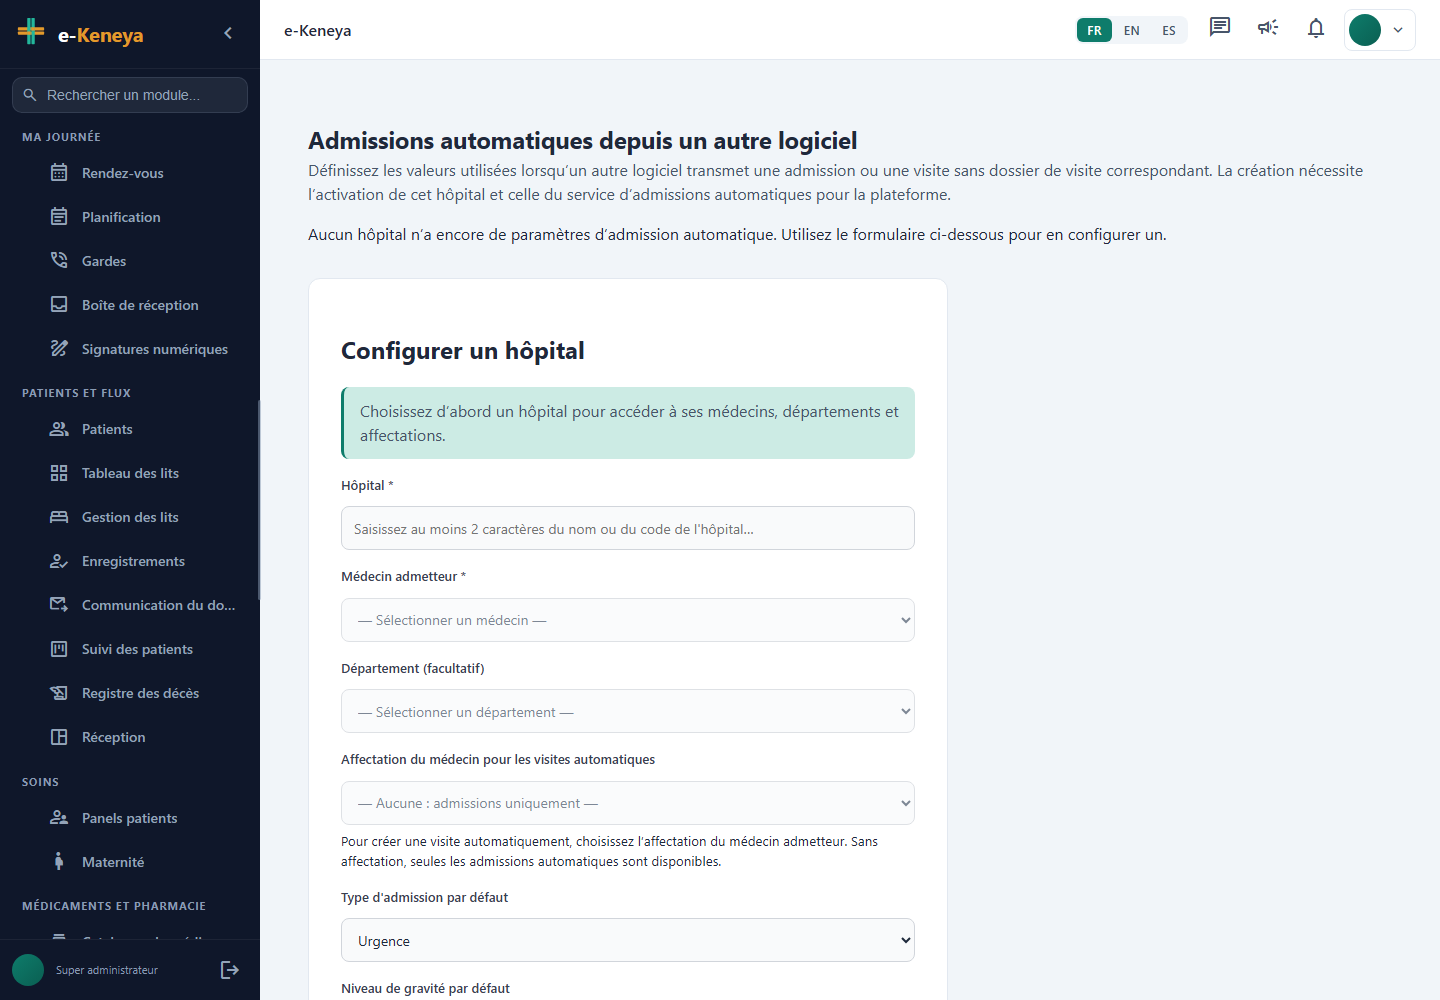
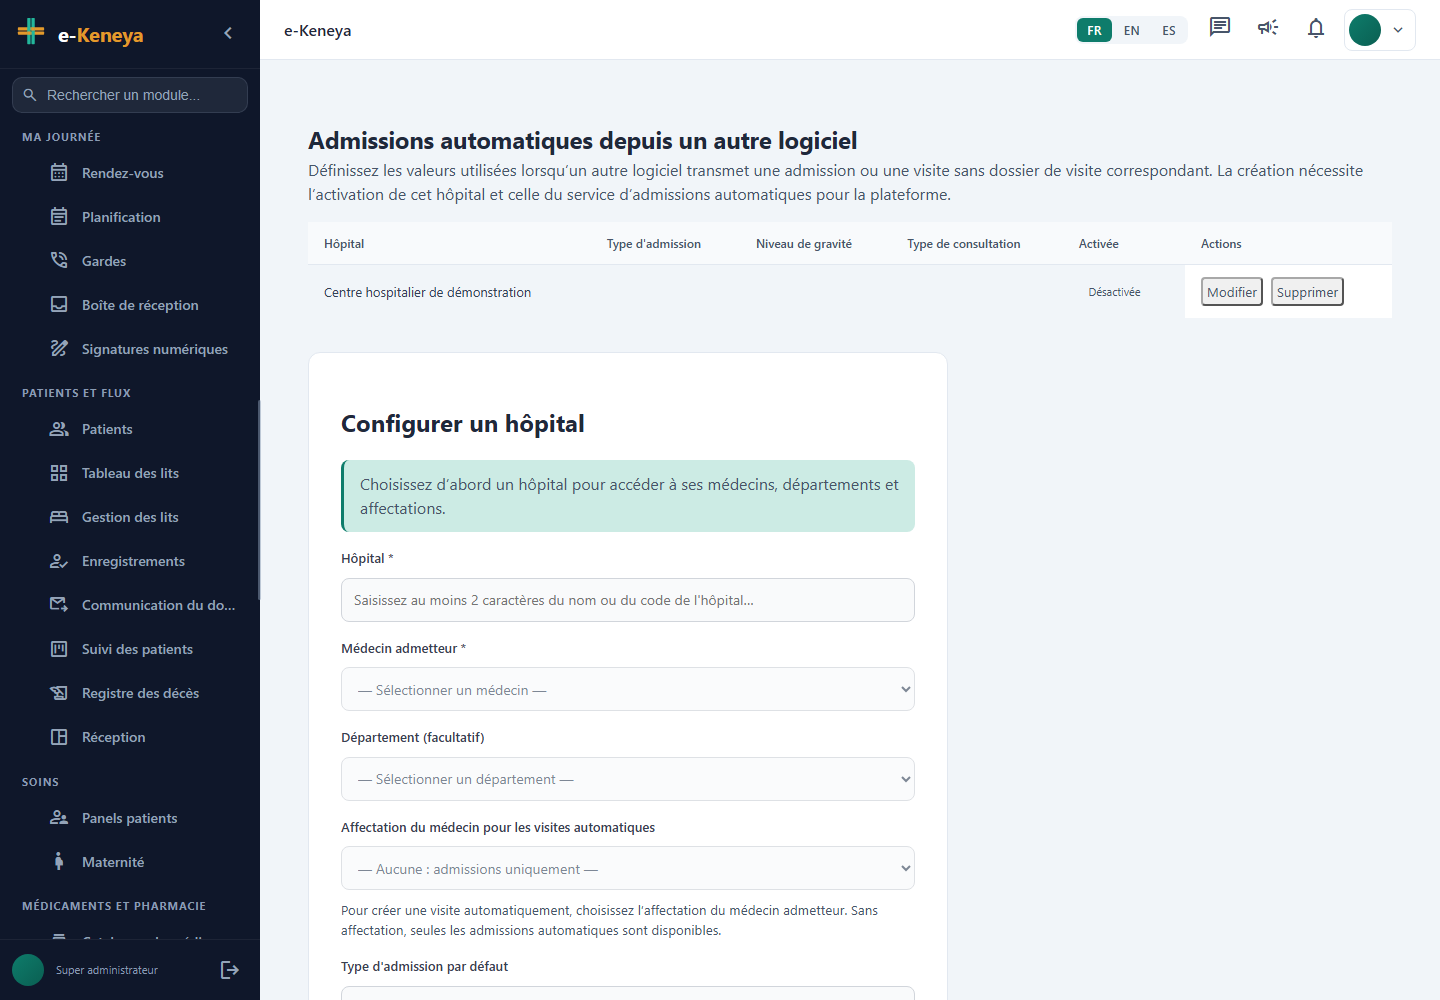
fix(ui): enforce CSS evidence and retain form display semantics

diff --git a/hospital-portal/e2e/form-display.spec.ts b/hospital-portal/e2e/form-display.spec.ts
@@ -10,7 +10,20 @@ for (const width of [390, 1440]) {
     await page.setViewportSize({ width, height: 1000 });
     await signInAs(page, 'ROLE_SUPER_ADMIN', baseURL!);
     await installLocalIconFonts(page);
-    await page.route('**/api/admin/adt-intake-configs*', (route) => route.fulfill({ json: [] }));
+    await page.route('**/api/admin/adt-intake-configs*', (route) =>
+      route.fulfill({
+        json: [
+          {
+            id: TEST_ID,
+            hospitalId: TEST_ID,
+            hospitalName: 'Centre hospitalier de démonstration',
+            admittingProviderId: null,
+            departmentId: null,
+            enabled: false,
+          },
+        ],
+      }),
+    );
     await page.goto('/admin/adt-intake-configs');
     const form = page.getByTestId('adt-intake-form');
     await expect(form).toBeVisible();
@@ -35,7 +48,6 @@ for (const width of [390, 1440]) {
           parentLeft: parent.left,
           parentRight: parent.right,
           radius: parseFloat(style.borderRadius),
-          font: style.fontFamily,
         };
       });
       expect(measured.height).toBeGreaterThanOrEqual(43);
@@ -48,10 +60,27 @@ for (const width of [390, 1440]) {
     );
     await expect(page.getByTestId('adt-intake-admin')).not.toContainText('ADT^');
     await expect(page.getByTestId('adt-intake-admin')).not.toContainText('app.hl7.');
+    const label = form.locator('label[for="adt-hospital-search"]');
+    expect(await label.evaluate((el) => getComputedStyle(el).fontWeight)).toBe('500');
+    expect(await label.locator('..').evaluate((el) => getComputedStyle(el).flexDirection)).toBe(
+      'column',
+    );
     const screenshot = info.outputPath(`automatic-admissions-${width}.png`);
     await page.screenshot({ path: screenshot, fullPage: true });
     await info.attach(`automatic-admissions-${width}`, {
       path: screenshot,
+      contentType: 'image/png',
+    });
+    await page.getByTestId('adt-intake-edit-' + TEST_ID).click();
+    const hospital = page.getByTestId('adt-intake-hospital-search');
+    await expect(hospital).toBeDisabled();
+    await expect(hospital).toHaveAttribute('aria-describedby', 'adt-hospital-help');
+    await expect(page.locator('#adt-hospital-help')).toContainText('hôpital');
+    await expect(page.locator('#adt-hospital-help')).toBeVisible();
+    const editScreenshot = info.outputPath(`automatic-admissions-edit-${width}.png`);
+    await page.screenshot({ path: editScreenshot, fullPage: true });
+    await info.attach(`automatic-admissions-edit-${width}`, {
+      path: editScreenshot,
       contentType: 'image/png',
     });
     if (width === 390) {
@@ -146,6 +175,9 @@ for (const width of [390, 1440]) {
       expect(
         await page.evaluate(() => document.documentElement.scrollWidth <= innerWidth + 1),
       ).toBe(true);
+      for (const label of await form.locator(':scope > label').all()) {
+        expect(await label.evaluate((el) => el.getBoundingClientRect().height)).toBeLessThan(180);
+      }
       const screenshot = info.outputPath(`${name}-${width}.png`);
       await page.screenshot({ path: screenshot, fullPage: true });
       await info.attach(`${name}-${width}`, { path: screenshot, contentType: 'image/png' });
@@ -153,6 +185,23 @@ for (const width of [390, 1440]) {
     await checkAndCapture('dhis2-config-form', 'integration-settings');
     await page.getByTestId('dhis2-tab-mappings').click();
     await checkAndCapture('dhis2-mapping-add-form', 'integration-mappings');
+    const filter = page.getByTestId('dhis2-mapping-filter-dataset');
+    await expect(filter).toBeVisible();
+    const bounds = await filter.evaluate((el) => {
+      const box = el.getBoundingClientRect();
+      const parent = el.closest('.dhis2-mappings__filter')!.getBoundingClientRect();
+      return {
+        left: box.left,
+        right: box.right,
+        parentLeft: parent.left,
+        parentRight: parent.right,
+        height: box.height,
+      };
+    });
+    expect(bounds.left).toBeGreaterThanOrEqual(bounds.parentLeft);
+    expect(bounds.right).toBeLessThanOrEqual(bounds.parentRight);
+    expect(bounds.height).toBeGreaterThanOrEqual(43);
+
     await page.getByTestId('dhis2-tab-exports').click();
     await checkAndCapture('dhis2-export-form', 'integration-exports');
     await signInAs(page, 'ROLE_SUPER_ADMIN', baseURL!);

diff --git a/hospital-portal/src/app/shell/shell.ts b/hospital-portal/src/app/shell/shell.ts
@@ -62,6 +62,7 @@ import { ServerTimePipe } from '../shared/pipes/server-time.pipe';
 import { ConfirmService } from '../shared/confirm-dialog/confirm.service';
 
 interface NavItem {
+  wrapLabel?: boolean;
   icon: string;
   label: string;
   translationKey?: string;
@@ -1784,6 +1785,7 @@ export class ShellComponent implements OnInit, OnDestroy, AfterViewInit {
       icon: 'input',
       label: 'ADT intake',
       translationKey: 'NAV.ADT_INTAKE',
+      wrapLabel: true,
       route: '/admin/adt-intake-configs',
     });
     items.push({

diff --git a/hospital-portal/playwright.production.config.ts b/hospital-portal/playwright.production.config.ts
@@ -14,7 +14,10 @@ export default defineConfig({
   },
   reporter: [['list'], ['html', { open: 'never' }]],
   webServer: {
-    command: 'npm run build && node scripts/serve-built-portal.mjs',
+    command:
+      process.env.PLAYWRIGHT_PREBUILT === '1'
+        ? 'node scripts/serve-built-portal.mjs'
+        : 'npm run build && node scripts/serve-built-portal.mjs',
     url: 'http://127.0.0.1:4281',
     reuseExistingServer: false,
     timeout: 240000,

diff --git a/hospital-portal/src/app/admin/adt-intake-config/adt-intake-config.component.scss b/hospital-portal/src/app/admin/adt-intake-config/adt-intake-config.component.scss
@@ -35,11 +35,13 @@
   flex-direction: column;
   margin-bottom: 0.75rem;
 }
-.form-row label {
+.form-row label,
+.form-group label {
   font-weight: 500;
   margin-bottom: 0.25rem;
 }
-.form-row small {
+.form-row small,
+.form-group small {
   color: var(--text-secondary);
   margin-top: 0.25rem;
 }
@@ -73,6 +75,8 @@
 }
 
 .form-group {
+  display: flex;
+  flex-direction: column;
   gap: 0.375rem;
   margin-bottom: 1rem;
   min-width: 0;

diff --git a/hospital-portal/src/app/shell/shell.html b/hospital-portal/src/app/shell/shell.html
@@ -111,6 +111,7 @@
           @for (entry of group.entries; track entry.item.route) {
             <a
               class="nav-item"
+              [class.nav-item--wrap-label]="entry.item.wrapLabel"
               [class.dragging]="dragIndex() === entry.flatIndex"
               [class.drag-over]="
                 dragOverIndex() === entry.flatIndex && dragIndex() !== entry.flatIndex

diff --git a/hospital-portal/src/app/shell/shell.scss b/hospital-portal/src/app/shell/shell.scss
@@ -271,7 +271,7 @@ $sidebar-active-text: #23b79c; // 6.2:1 on the active row
 }
 
 // Keep the complete plain-language label readable in the narrow admin drawer.
-.nav-item[href='/admin/adt-intake-configs'] .nav-label {
+.nav-item--wrap-label .nav-label {
   white-space: normal;
   overflow-wrap: anywhere;
   text-overflow: clip;

diff --git a/hospital-portal/src/app/admin/integrations/dhis2-mapping-editor/dhis2-mapping-editor.component.ts b/hospital-portal/src/app/admin/integrations/dhis2-mapping-editor/dhis2-mapping-editor.component.ts
@@ -194,7 +194,7 @@ import { ConfirmService } from '../../../shared/confirm-dialog/confirm.service';
         max-width: 100%;
         min-width: 0;
       }
-      .form-card label {
+      .dhis2-mappings__add > label {
         min-width: 0;
         flex: 1 1 14rem;
       }

diff --git a/hospital-portal/src/app/admin/integrations/dhis2-export-panel/dhis2-export-panel.component.ts b/hospital-portal/src/app/admin/integrations/dhis2-export-panel/dhis2-export-panel.component.ts
@@ -171,7 +171,7 @@ import { SubmitGuardDirective } from '../../../shared/forms/submit-guard.directi
         max-width: 100%;
         min-width: 0;
       }
-      .form-card label {
+      .dhis2-export__form > label {
         min-width: 0;
         flex: 1 1 14rem;
       }

diff --git a/hospital-portal/src/app/admin/integrations/dhis2-admin-page/dhis2-admin-page.component.ts b/hospital-portal/src/app/admin/integrations/dhis2-admin-page/dhis2-admin-page.component.ts
@@ -231,7 +231,7 @@ type Tab = 'config' | 'mappings' | 'exports';
         max-width: 100%;
         min-width: 0;
       }
-      .form-card label {
+      .dhis2-admin__config-form > label {
         min-width: 0;
         flex: 1 1 14rem;
       }

diff --git a/docs/ui/c-ui-admin/README.md b/docs/ui/c-ui-admin/README.md
@@ -2,8 +2,8 @@
 
 Display-only form work. The shared `appFormControl` directive adds the uniquely
 named `keneya-form-control` style to native controls. It has no value accessor,
-validator, event listener or API call. Existing component class bodies and
-form/event bindings are unchanged. Native text/select/textarea binding,
+validator, event listener or API call. Form values, validation and event bindings are unchanged. The shell gains a
+presentation-only wrapLabel flag for the admissions navigation label. Native text/select/textarea binding,
 validation and disabled behavior are covered by tests.
 
 These screenshots come from the local production SPA in Chromium using synthetic
@@ -42,3 +42,5 @@ Exception keys include an occurrence counter: 87 existing controls have 85
 previously recorded fingerprints (two pairs were identical siblings). Each
 control now has its own reasoned entry; copying one again fails the guard.
 This corrects the old collision rather than adding an exception for new code.
+
+Current review follow-up: the census checks the cited compiled component/global CSS selectors, not only reason text. Removing the order-set stylesheet fails the census. The ADT labels/help styles are carried over to form-group; reverting the stylesheet makes both-width browser checks fail (font weight 600 instead of 500). The mapping filter and DHIS label heights are measured too. Edit-state evidence: [390 px](automatic-admissions-edit-390.png), [1440 px](automatic-admissions-edit-1440.png). All 13 screenshots were refreshed from the passing production run. The two CI production suites reuse one build; the shared config still builds by default locally.
